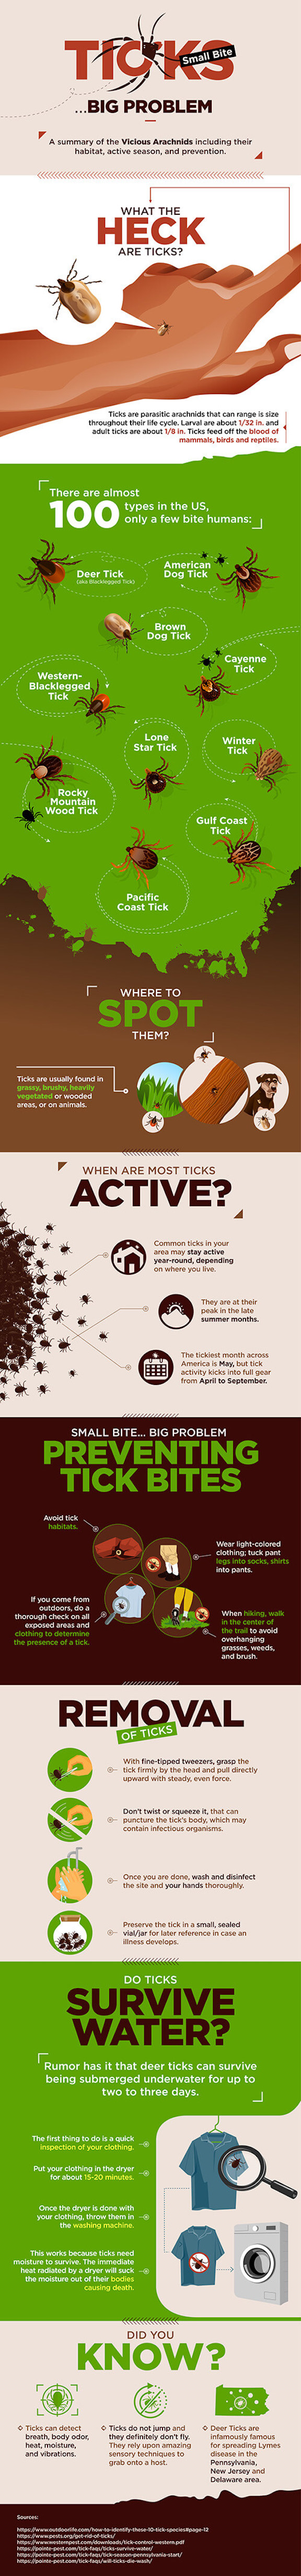
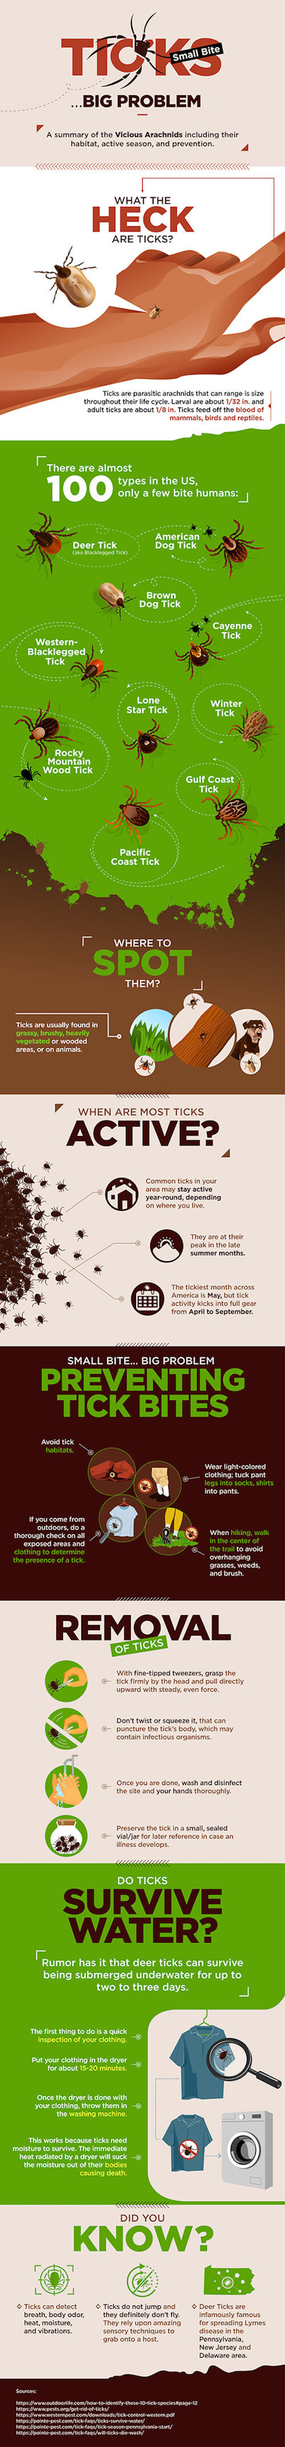
work on parallax

diff --git a/src/components/Info.js b/src/components/Info.js
@@ -11,6 +11,16 @@ import Grass from "./img/grass.png";
 import Tick from "./img/tick.png";
 import TickMap from "./img/tickMap.jpg";
 import TickInfo from "./img/tickInfo.jpeg";
+import IG1 from "./img/IG1.png"
+import IG2 from "./img/IG2.png"
+import IG3 from "./img/IG3.png"
+import IG4 from "./img/IG4.png"
+import IG5 from "./img/IG5.png"
+import IG6 from "./img/IG6.png"
+import IG7 from "./img/IG7.png"
+import IG8 from "./img/IG8.png"
+import IG9 from "./img/IG9.png"
+import NavIcon from "./img/navIcon.png"
 import "../App.css";
 
 const Info = () => {
@@ -35,27 +45,66 @@ const Info = () => {
         <Parallax speed={26.5}>
           <img src={Grass} className="Grass" />
         </Parallax>
-        <Parallax speed={25.5}>
-          <img src={TickInfo} className="TickInfo" />
-        </Parallax>
-      </section>
+      {/* </section>
 
-      <section>
-        <Parallax speed={4}>
-          <img src={Tick} className="Tick1" />
+      <section> */}
+        <Parallax speed={25}>
+          <img src={IG1} className="IG1" />
         </Parallax>
-        {/* <Parallax speed={3}>
-          <img src={Tick} className="Tick2" />
+        <Parallax speed={24}>
+          <img src={NavIcon} className="Tick1" />
         </Parallax>
-        <Parallax speed={1}>
-          <img src={Tick} className="Tick3" />
+        <Parallax speed={23}>
+          <img src={IG2} className="IG2" />
         </Parallax>
-        <Parallax speed={2}>
-          <img src={Tick} className="Tick4" />
+        <Parallax speed={22.5}>
+          <img src={NavIcon} className="Tick2" />
         </Parallax>
-        <Parallax speed={4}>
-          <img src={Tick} className="Tick5" />
-        </Parallax> */}
+        <Parallax speed={22}>
+          <img src={IG3} className="IG3" />
+        </Parallax>
+        <Parallax speed={26}>
+          <img src={NavIcon} className="Tick3" />
+        </Parallax>
+        <Parallax speed={21}>
+          <img src={IG4} className="IG4" />
+        </Parallax>
+        <Parallax speed={20}>
+          <img src={NavIcon} className="Tick4" />
+        </Parallax>
+        <Parallax speed={21}>
+          <img src={NavIcon} className="Tick5" />
+        </Parallax>
+        <Parallax speed={20}>
+          <img src={IG5} className="IG5" />
+        </Parallax>
+        <Parallax speed={18}>
+          <img src={NavIcon} className="Tick6" />
+        </Parallax>
+        <Parallax speed={17}>
+          <img src={NavIcon} className="Tick7" />
+        </Parallax>
+        <Parallax speed={19}>
+          <img src={IG6} className="IG6" />
+        </Parallax>
+        <Parallax speed={16}>
+          <img src={NavIcon} className="Tick8" />
+        </Parallax>
+        <Parallax speed={18}>
+          <img src={IG7} className="IG7" />
+        </Parallax>
+        <Parallax speed={14}>
+          <img src={NavIcon} className="Tick9" />
+        </Parallax>
+        <Parallax speed={17}>
+          <img src={IG8} className="IG8" />
+        </Parallax>
+        <Parallax speed={18}>
+          <img src={NavIcon} className="Tick10" />
+        </Parallax>
+        <Parallax speed={16}>
+          <img src={IG9} className="IG9" />
+        </Parallax>
       </section>
     </div>
   );

diff --git a/src/App.css b/src/App.css
@@ -74,6 +74,10 @@
   z-index: 2;
 }
 
+.Grass{
+  width: 100%
+}
+
 .NavIcon {
   padding: 25px;
 }
@@ -90,31 +94,44 @@
   font-size: 40px;
 }
 
-.Tick {
+.IG1 {
   /* padding-top: 1000px; */
   z-index: -1;
+  float: left;
 }
 
-.Tick1 {
+.IG2 {
   padding-left: 500px;
-}
-
-.Tick2 {
   float: right;
 }
 
-.Tick3 {
+.IG3 {
+  float: left;
+}
+
+.IG4 {
   float: right;
 }
 
-.Tick4 {
+.IG5 {
+  float: left;
+}
+
+.IG6 {
   float: right;
 }
 
-.Tick5 {
+.IG7 {
+  float: left;
+}
+
+.IG8 {
   float: right;
 }
 
+.IG9 {
+  float: left;
+}
 /* .TickMap {
   background-color: black !important;
 } */
